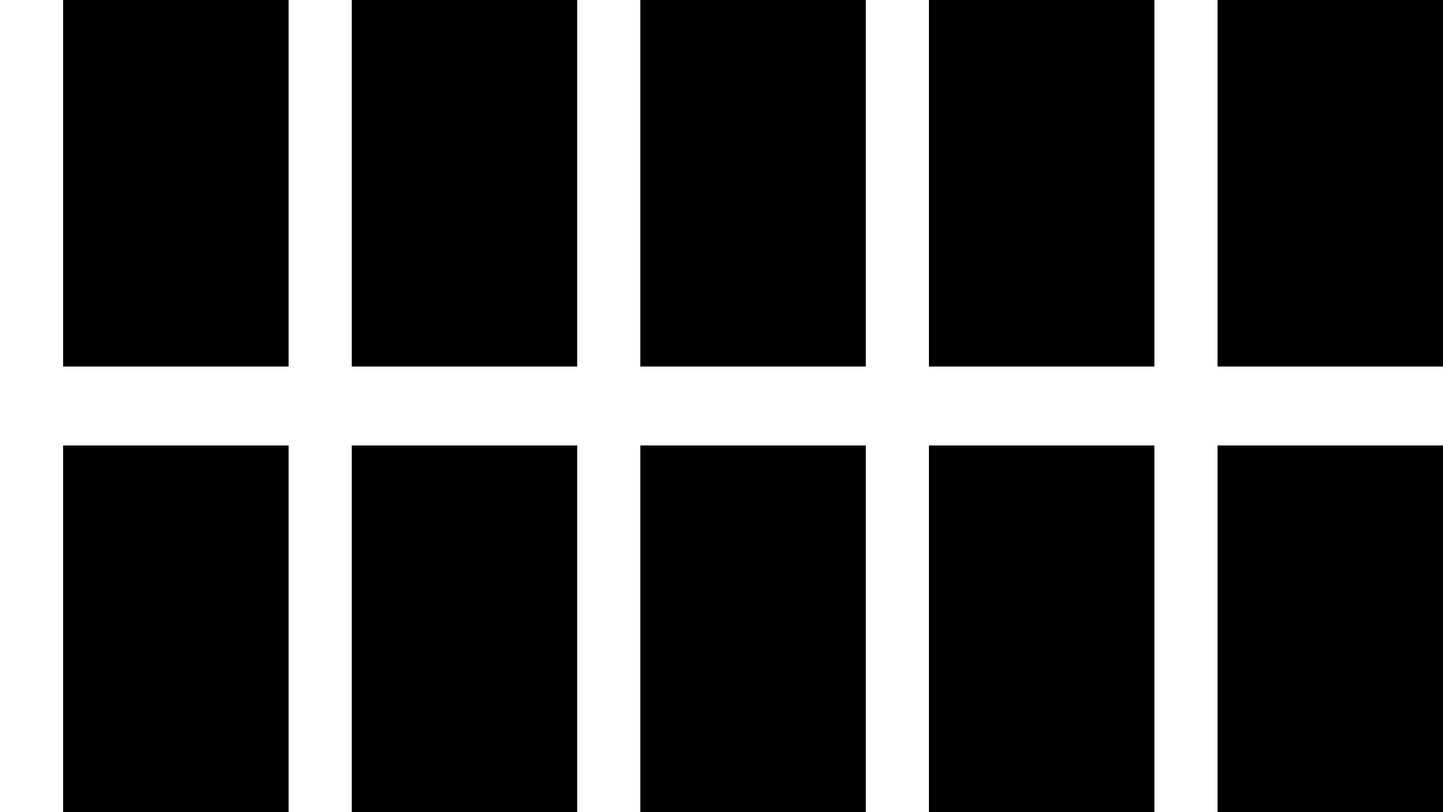
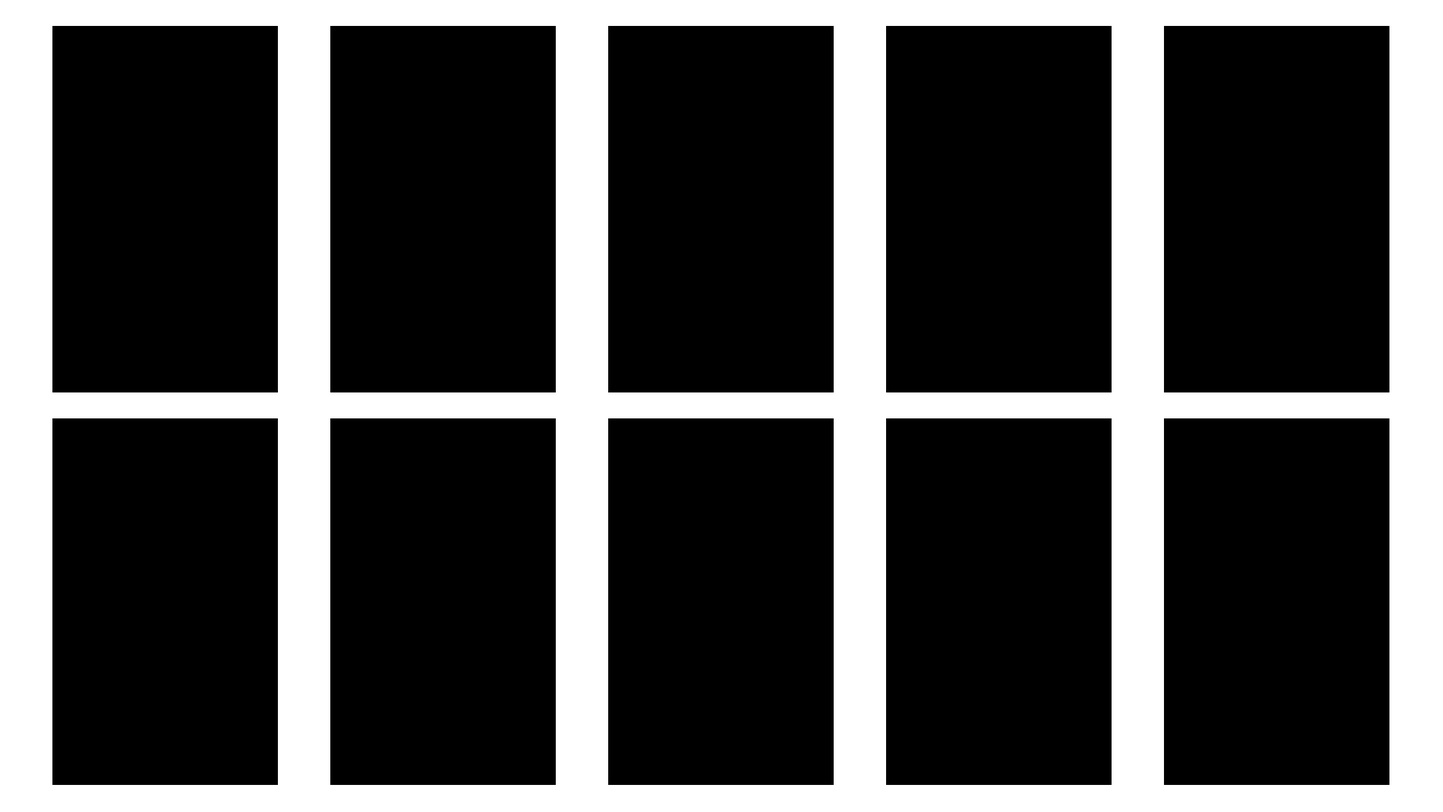
``` docs: スプライト生成プロンプトを5フレームから10フレームへ拡張 ```

Changed region(s): [[0.0312, 0.0, 1.0, 1.0]]

diff --git a/prompt/sprite_list.md b/prompt/sprite_list.md
@@ -6,7 +6,7 @@
 - **风格**: 现代像素美术 (类似 Dead Cells)
 - **视角**: 正上方俯视（上帝视角），从角色正上方正交投影
 - **配色**: 深绿色斗篷（带兜帽覆盖头部）、棕色皮革箭袋、木质长弓、深棕色靴子
-- **帧数**: 每个动作 5 帧
+- **帧数**: 每个动作 10 帧
 - **目标帧尺寸**: 80 × 130 像素 (透明背景)
 
 ---
@@ -16,78 +16,81 @@
 | 参数 | 值 |
 |------|-----|
 | 生成方式 | image2image（以参考图为布局基准） |
-| 参考图 | `seedance-input/rule.png` |
+| 参考图 | `seedance-input/rule_10.png` |
 | ratio | 16:9 |
 | resolution_type | 2k |
 | model_version | 5.0 |
 | poll | 120 |
 
-> 输出原始尺寸约 2560×1440（16:9），后续裁切为 5 张独立帧并缩放到 80×130。
+> 输出原始尺寸约 2560×1440（16:9），后续裁切为 10 张独立帧并缩放到 80×130。
 
-### 参考图说明 (`seedance-input/rule.png`)
+### 参考图说明 (`seedance-input/rule_10.png`)
 
-布局模板图（2560×1440），白底上有 5 个等距黑色矩形区域，定义了角色的精确放置位置：
+布局模板图（2560×1440），白底上有 10 个黑色矩形区域（上下两行各5个），定义了角色的精确放置位置：
 
 | 属性 | 值 |
 |------|-----|
 | 黑色区域尺寸 | 400×650 像素（每个） |
-| 顶部留白 | 427 像素 |
-| 底部留白 | 363 像素 |
-| 左侧留白 / 矩形间距 | 112 像素 |
-| 黑色区域行范围 | y=427 ~ y=1076 |
+| 布局 | 上下两行，每行5个 |
+| 上方留白 | 46 像素 |
+| 行间距 | 46 像素 |
+| 下方留白 | 48 像素 |
+| 左侧留白 | 93 像素 |
+| 水平间距（矩形之间） | 93 像素 |
+| 第一行行范围 | y=46 ~ y=696 |
+| 第二行行范围 | y=742 ~ y=1392 |
 
 生成时角色必须**完全填满**每个黑色矩形区域，黑色区域外保持纯白背景。
+帧序号：第一行从左到右为第1~5帧，第二行从左到右为第6~10帧。
 
 ---
 
 ## 核心约束（所有动作必须遵守）
 
 ```
-⚠ 重要：以下约束必须在生成时严格执行（基于参考图 seedance-input/rule.png，输出尺寸 2560×1440）
+⚠ 重要：以下约束必须在生成时严格执行（基于参考图 seedance-input/rule_10.png，输出尺寸 2560×1440）
 
-1. 【参考图布局】以 seedance-input/rule.png 为布局基准，图中有 5 个 400×650 像素的黑色矩形区域，
+1. 【参考图布局】以 seedance-input/rule_10.png 为布局基准，图中有 10 个 400×650 像素的黑色矩形区域（上下两行各5个），
    角色必须完全填满每个黑色区域，黑色区域之外保持纯白色背景。
 
-2. 【统一角色比例】所有 5 帧中角色必须保持完全相同的像素大小，
+2. 【统一角色比例】所有 10 帧中角色必须保持完全相同的像素大小，
    角色从头顶到脚底填满黑色区域的 650 像素高度，宽度填满 400 像素宽度。
    三个动作（idle/walk/attack）之间的角色大小也必须完全一致。
 
-3. 【脚底锚点】所有 5 帧角色的脚底必须处于同一水平高度，
-   对齐黑色区域的底边（距图片底边 363 像素处），不得上下偏移。
+3. 【脚底锚点】所有 10 帧角色的脚底必须处于各自黑色区域底边的同一相对高度，不得上下偏移。
 
-4. 【头顶锚点】角色头顶对齐黑色区域的顶边（距图片顶边 427 像素处），
-   所有帧保持一致。
+4. 【头顶锚点】角色头顶对齐各自黑色区域的顶边，所有帧保持一致。
 
-5. 【帧布局】5 帧按参考图中 5 个黑色区域的位置从左到右排列，
+5. 【帧布局】10 帧按参考图中 10 个黑色区域的位置排列（第一行5个从左到右为1~5帧，第二行5个为6~10帧），
    帧与帧之间无任何分隔线、边框、标注或辅助线，
    背景保持纯净纯白，禁止在画面中任何位置出现横线、竖线、分割线、
    网格线、标尺、刻度或任何形式的辅助标记。
 
-6. 【角色位置固定】★ 核心约束 ★ 所有 5 帧中角色必须严格固定在各自黑色区域的
+6. 【角色位置固定】★ 核心约束 ★ 所有 10 帧中角色必须严格固定在各自黑色区域的
    正中央位置（X轴Y轴均固定），仅允许动作姿态变化，
    绝对禁止角色位置在帧与帧之间出现任何偏移、漂移或位置不一致的问题。
 
 7. 【禁止辅助元素】★ 画面中不得出现任何非角色内容的辅助性视觉元素 ★
    包括但不限于：参考线、对齐线、网格、标注文字、箭头、尺寸标记等。
-   整张图片只包含纯白背景和 5 个角色帧，不含任何额外的图形元素。
+   整张图片只包含纯白背景和 10 个角色帧，不含任何额外的图形元素。
 ```
 
 ---
 
 ## 动作一：待机 (Idle)
 
-**动作描述**: 角色站立不动，呈现自然的呼吸起伏节奏，斗篷随微风轻微飘动。
+**动作描述**: 角色站立不动，呈现自然的呼吸起伏节奏，斗篷随微风轻微飘动。10帧形成完整的呼吸循环。
 
 ```text
-参考输入图片的布局，将5个黑色矩形区域替换为像素风格游戏角色。现代像素美术风格，类似Dead Cells的精美像素画风，**正上方俯视视角（上帝视角）**，从角色正上方正交投影，角色头顶清晰可见。一个弓箭手角色的待机idle动画序列帧，**角色必须完全填满每个黑色矩形区域（400×650像素）**，黑色区域之外保持纯白色背景。帧与帧之间无任何分隔线、边框、黑线或辅助线，**严禁在画面中任何位置出现横线、竖线、黑线、网格线、标尺、刻度或任何辅助标记，帧与帧的过渡区域必须是纯白色无任何痕迹**。所有帧中角色严格固定在各自黑色区域正中央同一位置（X轴Y轴均固定），仅允许呼吸姿态动作变化，绝对禁止角色位置在帧与帧之间出现任何偏移或漂移。所有5帧角色必须保持完全相同的像素大小，三个动作间角色大小也必须完全一致。角色身穿深绿色斗篷、头戴深绿色兜帽（hood，从俯视角度兜帽覆盖头顶清晰可见），背负精致箭袋，左手持木质长弓。5帧展示连续的呼吸起伏循环动作：第1帧角色直立、第2帧身体微微下沉、第3帧下沉到最低点斗篷轻微飘动、第4帧身体开始回升、第5帧回到初始姿态。每一帧的动作变化细微且平滑衔接，形成流畅的待机呼吸动画循环。纯白色背景，无任何装饰元素，清晰像素轮廓，适合游戏开发使用。
+参考输入图片的布局，将10个黑色矩形区域替换为像素风格游戏角色。现代像素美术风格，类似Dead Cells的精美像素画风，**正上方俯视视角（上帝视角）**，从角色正上方正交投影，角色头顶清晰可见。一个弓箭手角色的待机idle动画序列帧，**角色必须完全填满每个黑色矩形区域（400×650像素）**，黑色区域之外保持纯白色背景。帧与帧之间无任何分隔线、边框、黑线或辅助线，**严禁在画面中任何位置出现横线、竖线、黑线、网格线、标尺、刻度或任何辅助标记，帧与帧的过渡区域必须是纯白色无任何痕迹**。所有帧中角色严格固定在各自黑色区域正中央同一位置（X轴Y轴均固定），仅允许呼吸姿态动作变化，绝对禁止角色位置在帧与帧之间出现任何偏移或漂移。所有10帧角色必须保持完全相同的像素大小，三个动作间角色大小也必须完全一致。角色身穿深绿色斗篷、头戴深绿色兜帽（hood，从俯视角度兜帽覆盖头顶清晰可见），背负精致箭袋，左手持木质长弓。10帧展示连续的呼吸起伏循环动作：第1帧角色直立、第2帧身体开始微微下沉、第3帧继续下沉斗篷开始飘动、第4帧下沉到最低点斗篷轻微飘动、第5帧身体开始缓慢回升、第6帧继续回升斗篷回落、第7帧回到直立位置、第8帧身体微微上扬、第9帧上扬到最高点微微挺胸、第10帧回到初始姿态完成循环。每一帧的动作变化细微且平滑衔接，形成流畅的待机呼吸动画循环。纯白色背景，无任何装饰元素，清晰像素轮廓，适合游戏开发使用。
 ```
 
 **CLI 命令**:
 
 ```bash
 dreamina image2image \
-  --images seedance-input/rule.png \
-  --prompt="参考输入图片的布局，将5个黑色矩形区域替换为像素风格游戏角色。现代像素美术风格，类似Dead Cells的精美像素画风，**正上方俯视视角（上帝视角）**，从角色正上方正交投影，角色头顶清晰可见。一个弓箭手角色的待机idle动画序列帧，**角色必须完全填满每个黑色矩形区域（400×650像素）**，黑色区域之外保持纯白色背景。帧与帧之间无任何分隔线、边框、黑线或辅助线，**严禁在画面中任何位置出现横线、竖线、黑线、网格线、标尺、刻度或任何辅助标记，帧与帧的过渡区域必须是纯白色无任何痕迹**。所有帧中角色严格固定在各自黑色区域正中央同一位置（X轴Y轴均固定），仅允许呼吸姿态动作变化，绝对禁止角色位置在帧与帧之间出现任何偏移或漂移。所有5帧角色必须保持完全相同的像素大小，三个动作间角色大小也必须完全一致。角色身穿深绿色斗篷、头戴深绿色兜帽（hood，从俯视角度兜帽覆盖头顶清晰可见），背负精致箭袋，左手持木质长弓。5帧展示连续的呼吸起伏循环动作：第1帧角色直立、第2帧身体微微下沉、第3帧下沉到最低点斗篷轻微飘动、第4帧身体开始回升、第5帧回到初始姿态。每一帧的动作变化细微且平滑衔接，形成流畅的待机呼吸动画循环。纯白色背景，无任何装饰元素，清晰像素轮廓，适合游戏开发使用。" \
+  --images seedance-input/rule_10.png \
+  --prompt="参考输入图片的布局，将10个黑色矩形区域替换为像素风格游戏角色。现代像素美术风格，类似Dead Cells的精美像素画风，**正上方俯视视角（上帝视角）**，从角色正上方正交投影，角色头顶清晰可见。一个弓箭手角色的待机idle动画序列帧，**角色必须完全填满每个黑色矩形区域（400×650像素）**，黑色区域之外保持纯白色背景。帧与帧之间无任何分隔线、边框、黑线或辅助线，**严禁在画面中任何位置出现横线、竖线、黑线、网格线、标尺、刻度或任何辅助标记，帧与帧的过渡区域必须是纯白色无任何痕迹**。所有帧中角色严格固定在各自黑色区域正中央同一位置（X轴Y轴均固定），仅允许呼吸姿态动作变化，绝对禁止角色位置在帧与帧之间出现任何偏移或漂移。所有10帧角色必须保持完全相同的像素大小，三个动作间角色大小也必须完全一致。角色身穿深绿色斗篷、头戴深绿色兜帽（hood，从俯视角度兜帽覆盖头顶清晰可见），背负精致箭袋，左手持木质长弓。10帧展示连续的呼吸起伏循环动作：第1帧角色直立、第2帧身体开始微微下沉、第3帧继续下沉斗篷开始飘动、第4帧下沉到最低点斗篷轻微飘动、第5帧身体开始缓慢回升、第6帧继续回升斗篷回落、第7帧回到直立位置、第8帧身体微微上扬、第9帧上扬到最高点微微挺胸、第10帧回到初始姿态完成循环。每一帧的动作变化细微且平滑衔接，形成流畅的待机呼吸动画循环。纯白色背景，无任何装饰元素，清晰像素轮廓，适合游戏开发使用。" \
   --ratio=16:9 \
   --resolution_type=2k \
   --model_version=5.0 \
@@ -98,18 +101,18 @@ dreamina image2image \
 
 ## 动作二：行走 (Walk)
 
-**动作描述**: 角色面朝右方行走，所有帧朝向一致，左手始终持弓，腿部交替迈步，斗篷随步伐节奏飘动。
+**动作描述**: 角色面朝右方行走，所有帧朝向一致，左手始终持弓，腿部交替迈步，斗篷随步伐节奏飘动。10帧形成完整的两步行走循环。
 
 ```text
-参考输入图片的布局，将5个黑色矩形区域替换为像素风格游戏角色。现代像素美术风格，类似Dead Cells的精美像素画风，**正上方俯视视角（上帝视角）**，从角色正上方正交投影，角色头顶清晰可见。一个弓箭手角色的走路walk动画序列帧，**角色必须完全填满每个黑色矩形区域（400×650像素）**，黑色区域之外保持纯白色背景。帧与帧之间无任何分隔线、边框、黑线或辅助线，**严禁在画面中任何位置出现横线、竖线、黑线、网格线、标尺、刻度或任何辅助标记，帧与帧的过渡区域必须是纯白色无任何痕迹**。所有帧中角色严格固定在各自黑色区域正中央同一位置（X轴Y轴均固定），仅允许行走姿态动作变化，绝对禁止角色位置在帧与帧之间出现任何偏移或漂移。所有5帧角色必须保持完全相同的像素大小，三个动作间角色大小也必须完全一致。角色身穿深绿色斗篷、头戴深绿色兜帽（hood，从俯视角度兜帽覆盖头顶清晰可见），背负精致箭袋，**左手始终握持木质长弓（所有5帧每帧都必须可见长弓，不得省略或消失）**。★所有5帧角色必须统一面朝右方，朝向严格一致，禁止出现任何帧朝向不同或角色翻转的情况★。5帧展示连续的向右行走循环动作：第1帧左手持弓右脚向前迈出、第2帧左手持弓右脚着地重心前移、第3帧左手持弓双脚交替中间过渡、第4帧左手持弓左脚迈出斗篷随动飘起、第5帧左手持弓左脚着地完成一个步伐循环。每一帧角色始终面朝右方且左手握弓可见，位置不变只有腿部和身体姿态变化，动作变化平滑连贯形成流畅的行走动画。纯白色背景，无任何装饰元素，清晰像素轮廓，适合游戏开发使用。
+参考输入图片的布局，将10个黑色矩形区域替换为像素风格游戏角色。现代像素美术风格，类似Dead Cells的精美像素画风，**正上方俯视视角（上帝视角）**，从角色正上方正交投影，角色头顶清晰可见。一个弓箭手角色的走路walk动画序列帧，**角色必须完全填满每个黑色矩形区域（400×650像素）**，黑色区域之外保持纯白色背景。帧与帧之间无任何分隔线、边框、黑线或辅助线，**严禁在画面中任何位置出现横线、竖线、黑线、网格线、标尺、刻度或任何辅助标记，帧与帧的过渡区域必须是纯白色无任何痕迹**。所有帧中角色严格固定在各自黑色区域正中央同一位置（X轴Y轴均固定），仅允许行走姿态动作变化，绝对禁止角色位置在帧与帧之间出现任何偏移或漂移。所有10帧角色必须保持完全相同的像素大小，三个动作间角色大小也必须完全一致。角色身穿深绿色斗篷、头戴深绿色兜帽（hood，从俯视角度兜帽覆盖头顶清晰可见），背负精致箭袋，**左手始终握持木质长弓（所有10帧每帧都必须可见长弓，不得省略或消失）**。★所有10帧角色必须统一面朝右方，朝向严格一致，禁止出现任何帧朝向不同或角色翻转的情况★。10帧展示连续的向右行走循环动作：第1帧左手持弓右脚向前迈出、第2帧右脚着地重心前移、第3帧右脚完全着地身体前倾、第4帧双脚交替中间过渡、第5帧左脚开始迈出斗篷随动飘起、第6帧左脚向前迈步、第7帧左脚着地重心前移、第8帧左脚完全着地身体前倾、第9帧双脚交替中间过渡准备下一步、第10帧右脚开始迈出回到循环起点。每一帧角色始终面朝右方且左手握弓可见，位置不变只有腿部和身体姿态变化，动作变化平滑连贯形成流畅的行走动画。纯白色背景，无任何装饰元素，清晰像素轮廓，适合游戏开发使用。
 ```
 
 **CLI 命令**:
 
 ```bash
 dreamina image2image \
-  --images seedance-input/rule.png \
-  --prompt="参考输入图片的布局，将5个黑色矩形区域替换为像素风格游戏角色。现代像素美术风格，类似Dead Cells的精美像素画风，**正上方俯视视角（上帝视角）**，从角色正上方正交投影，角色头顶清晰可见。一个弓箭手角色的走路walk动画序列帧，**角色必须完全填满每个黑色矩形区域（400×650像素）**，黑色区域之外保持纯白色背景。帧与帧之间无任何分隔线、边框、黑线或辅助线，**严禁在画面中任何位置出现横线、竖线、黑线、网格线、标尺、刻度或任何辅助标记，帧与帧的过渡区域必须是纯白色无任何痕迹**。所有帧中角色严格固定在各自黑色区域正中央同一位置（X轴Y轴均固定），仅允许行走姿态动作变化，绝对禁止角色位置在帧与帧之间出现任何偏移或漂移。所有5帧角色必须保持完全相同的像素大小，三个动作间角色大小也必须完全一致。角色身穿深绿色斗篷、头戴深绿色兜帽（hood，从俯视角度兜帽覆盖头顶清晰可见），背负精致箭袋，**左手始终握持木质长弓（所有5帧每帧都必须可见长弓，不得省略或消失）**。★所有5帧角色必须统一面朝右方，朝向严格一致，禁止出现任何帧朝向不同或角色翻转的情况★。5帧展示连续的向右行走循环动作：第1帧左手持弓右脚向前迈出、第2帧左手持弓右脚着地重心前移、第3帧左手持弓双脚交替中间过渡、第4帧左手持弓左脚迈出斗篷随动飘起、第5帧左手持弓左脚着地完成一个步伐循环。每一帧角色始终面朝右方且左手握弓可见，位置不变只有腿部和身体姿态变化，动作变化平滑连贯形成流畅的行走动画。纯白色背景，无任何装饰元素，清晰像素轮廓，适合游戏开发使用。" \
+  --images seedance-input/rule_10.png \
+  --prompt="参考输入图片的布局，将10个黑色矩形区域替换为像素风格游戏角色。现代像素美术风格，类似Dead Cells的精美像素画风，**正上方俯视视角（上帝视角）**，从角色正上方正交投影，角色头顶清晰可见。一个弓箭手角色的走路walk动画序列帧，**角色必须完全填满每个黑色矩形区域（400×650像素）**，黑色区域之外保持纯白色背景。帧与帧之间无任何分隔线、边框、黑线或辅助线，**严禁在画面中任何位置出现横线、竖线、黑线、网格线、标尺、刻度或任何辅助标记，帧与帧的过渡区域必须是纯白色无任何痕迹**。所有帧中角色严格固定在各自黑色区域正中央同一位置（X轴Y轴均固定），仅允许行走姿态动作变化，绝对禁止角色位置在帧与帧之间出现任何偏移或漂移。所有10帧角色必须保持完全相同的像素大小，三个动作间角色大小也必须完全一致。角色身穿深绿色斗篷、头戴深绿色兜帽（hood，从俯视角度兜帽覆盖头顶清晰可见），背负精致箭袋，**左手始终握持木质长弓（所有10帧每帧都必须可见长弓，不得省略或消失）**。★所有10帧角色必须统一面朝右方，朝向严格一致，禁止出现任何帧朝向不同或角色翻转的情况★。10帧展示连续的向右行走循环动作：第1帧左手持弓右脚向前迈出、第2帧右脚着地重心前移、第3帧右脚完全着地身体前倾、第4帧双脚交替中间过渡、第5帧左脚开始迈出斗篷随动飘起、第6帧左脚向前迈步、第7帧左脚着地重心前移、第8帧左脚完全着地身体前倾、第9帧双脚交替中间过渡准备下一步、第10帧右脚开始迈出回到循环起点。每一帧角色始终面朝右方且左手握弓可见，位置不变只有腿部和身体姿态变化，动作变化平滑连贯形成流畅的行走动画。纯白色背景，无任何装饰元素，清晰像素轮廓，适合游戏开发使用。" \
   --ratio=16:9 \
   --resolution_type=2k \
   --model_version=5.0 \
@@ -120,18 +123,18 @@ dreamina image2image \
 
 ## 动作三：攻击 (Attack)
 
-**动作描述**: 角色完成一次完整的拉弓射箭动作，从举弓准备到箭矢射出再到恢复站姿。
+**动作描述**: 角色完成一次完整的拉弓射箭动作，从举弓准备到箭矢射出再到恢复站姿。10帧展示更细腻的射箭过程。
 
 ```text
-参考输入图片的布局位置，将5个黑色矩形区域完全替换为像素风格游戏角色，**黑色区域必须被角色彻底覆盖，不得残留任何黑色边框、黑边、黑色轮廓或黑色痕迹**。现代像素美术风格，类似Dead Cells的精美像素画风，**正上方俯视视角（上帝视角）**，从角色正上方正交投影，角色头顶清晰可见。一个弓箭手角色的攻击attack动画序列帧，角色按照原黑色区域的位置和大小放置（每个区域400×650像素），**最终画面中不得出现任何矩形边框、方框轮廓或黑色边界线**，角色周围直接是纯白色背景。帧与帧之间无任何分隔线、边框、黑线或辅助线，**严禁在画面中任何位置出现矩形边框、方框、黑色轮廓线、横线、竖线、黑线、网格线、标尺、刻度或任何辅助标记，帧与帧的过渡区域必须是纯白色无任何痕迹**。所有帧中角色严格固定在各自区域正中央同一位置（X轴Y轴均固定），仅允许射箭姿态动作变化，绝对禁止角色位置在帧与帧之间出现任何偏移或漂移。所有5帧角色必须保持完全相同的像素大小，三个动作间角色大小也必须完全一致。角色身穿深绿色斗篷、头戴深绿色兜帽（hood，从俯视角度兜帽覆盖头顶清晰可见），背负精致箭袋，左手持木质长弓。5帧展示连续的射箭攻击动作：第1帧角色举起长弓准备拉弦、第2帧右手向后拉弓弦弓身弯曲、第3帧弓拉满蓄力姿态身体微微后仰、第4帧松开弓弦箭矢射出有箭矢飞出的动态效果、第5帧射箭完成身体回正恢复站姿。每一帧动作递进明确且平滑衔接，形成完整流畅的射箭攻击动画。纯白色背景，无任何装饰元素、无任何边框，清晰像素轮廓，适合游戏开发使用。
+参考输入图片的布局位置，将10个黑色矩形区域完全替换为像素风格游戏角色，**黑色区域必须被角色彻底覆盖，不得残留任何黑色边框、黑边、黑色轮廓或黑色痕迹**。现代像素美术风格，类似Dead Cells的精美像素画风，**正上方俯视视角（上帝视角）**，从角色正上方正交投影，角色头顶清晰可见。一个弓箭手角色的攻击attack动画序列帧，角色按照原黑色区域的位置和大小放置（每个区域400×650像素），**最终画面中不得出现任何矩形边框、方框轮廓或黑色边界线**，角色周围直接是纯白色背景。帧与帧之间无任何分隔线、边框、黑线或辅助线，**严禁在画面中任何位置出现矩形边框、方框、黑色轮廓线、横线、竖线、黑线、网格线、标尺、刻度或任何辅助标记，帧与帧的过渡区域必须是纯白色无任何痕迹**。所有帧中角色严格固定在各自区域正中央同一位置（X轴Y轴均固定），仅允许射箭姿态动作变化，绝对禁止角色位置在帧与帧之间出现任何偏移或漂移。所有10帧角色必须保持完全相同的像素大小，三个动作间角色大小也必须完全一致。角色身穿深绿色斗篷、头戴深绿色兜帽（hood，从俯视角度兜帽覆盖头顶清晰可见），背负精致箭袋，左手持木质长弓。10帧展示连续的射箭攻击动作：第1帧角色举起长弓准备、第2帧右手搭箭上弦、第3帧开始向后拉弓弦弓身微弯、第4帧弓弦拉到一半弓身明显弯曲、第5帧弓拉满蓄力姿态身体微微后仰、第6帧保持满弓瞄准目标、第7帧松开弓弦箭矢射出、第8帧箭矢飞出的动态效果弓弦振动、第9帧身体开始回正弓恢复原状、第10帧完全恢复站姿回到初始状态。每一帧动作递进明确且平滑衔接，形成完整流畅的射箭攻击动画。纯白色背景，无任何装饰元素、无任何边框，清晰像素轮廓，适合游戏开发使用。
 ```
 
 **CLI 命令**:
 
 ```bash
 dreamina image2image \
-  --images seedance-input/rule.png \
-  --prompt="参考输入图片的布局位置，将5个黑色矩形区域完全替换为像素风格游戏角色，**黑色区域必须被角色彻底覆盖，不得残留任何黑色边框、黑边、黑色轮廓或黑色痕迹**。现代像素美术风格，类似Dead Cells的精美像素画风，**正上方俯视视角（上帝视角）**，从角色正上方正交投影，角色头顶清晰可见。一个弓箭手角色的攻击attack动画序列帧，角色按照原黑色区域的位置和大小放置（每个区域400×650像素），**最终画面中不得出现任何矩形边框、方框轮廓或黑色边界线**，角色周围直接是纯白色背景。帧与帧之间无任何分隔线、边框、黑线或辅助线，**严禁在画面中任何位置出现矩形边框、方框、黑色轮廓线、横线、竖线、黑线、网格线、标尺、刻度或任何辅助标记，帧与帧的过渡区域必须是纯白色无任何痕迹**。所有帧中角色严格固定在各自区域正中央同一位置（X轴Y轴均固定），仅允许射箭姿态动作变化，绝对禁止角色位置在帧与帧之间出现任何偏移或漂移。所有5帧角色必须保持完全相同的像素大小，三个动作间角色大小也必须完全一致。角色身穿深绿色斗篷、头戴深绿色兜帽（hood，从俯视角度兜帽覆盖头顶清晰可见），背负精致箭袋，左手持木质长弓。5帧展示连续的射箭攻击动作：第1帧角色举起长弓准备拉弦、第2帧右手向后拉弓弦弓身弯曲、第3帧弓拉满蓄力姿态身体微微后仰、第4帧松开弓弦箭矢射出有箭矢飞出的动态效果、第5帧射箭完成身体回正恢复站姿。每一帧动作递进明确且平滑衔接，形成完整流畅的射箭攻击动画。纯白色背景，无任何装饰元素、无任何边框，清晰像素轮廓，适合游戏开发使用。" \
+  --images seedance-input/rule_10.png \
+  --prompt="参考输入图片的布局位置，将10个黑色矩形区域完全替换为像素风格游戏角色，**黑色区域必须被角色彻底覆盖，不得残留任何黑色边框、黑边、黑色轮廓或黑色痕迹**。现代像素美术风格，类似Dead Cells的精美像素画风，**正上方俯视视角（上帝视角）**，从角色正上方正交投影，角色头顶清晰可见。一个弓箭手角色的攻击attack动画序列帧，角色按照原黑色区域的位置和大小放置（每个区域400×650像素），**最终画面中不得出现任何矩形边框、方框轮廓或黑色边界线**，角色周围直接是纯白色背景。帧与帧之间无任何分隔线、边框、黑线或辅助线，**严禁在画面中任何位置出现矩形边框、方框、黑色轮廓线、横线、竖线、黑线、网格线、标尺、刻度或任何辅助标记，帧与帧的过渡区域必须是纯白色无任何痕迹**。所有帧中角色严格固定在各自区域正中央同一位置（X轴Y轴均固定），仅允许射箭姿态动作变化，绝对禁止角色位置在帧与帧之间出现任何偏移或漂移。所有10帧角色必须保持完全相同的像素大小，三个动作间角色大小也必须完全一致。角色身穿深绿色斗篷、头戴深绿色兜帽（hood，从俯视角度兜帽覆盖头顶清晰可见），背负精致箭袋，左手持木质长弓。10帧展示连续的射箭攻击动作：第1帧角色举起长弓准备、第2帧右手搭箭上弦、第3帧开始向后拉弓弦弓身微弯、第4帧弓弦拉到一半弓身明显弯曲、第5帧弓拉满蓄力姿态身体微微后仰、第6帧保持满弓瞄准目标、第7帧松开弓弦箭矢射出、第8帧箭矢飞出的动态效果弓弦振动、第9帧身体开始回正弓恢复原状、第10帧完全恢复站姿回到初始状态。每一帧动作递进明确且平滑衔接，形成完整流畅的射箭攻击动画。纯白色背景，无任何装饰元素、无任何边框，清晰像素轮廓，适合游戏开发使用。" \
   --ratio=16:9 \
   --resolution_type=2k \
   --model_version=5.0 \
@@ -142,9 +145,9 @@ dreamina image2image \
 
 ## 后处理：裁切脚本
 
-生成的 sprite sheet（约 2560×1440）需裁切为 5 张独立帧，并缩放到 80×130。透明背景 PNG。
+生成的 sprite sheet（约 2560×1440）需裁切为 10 张独立帧（上下两行各5个），并缩放到 80×130。透明背景 PNG。
 
-> 注意：使用 image2image + rule.png 参考图后，角色位于 5 个 400×650 的区域内，
+> 注意：使用 image2image + rule_10.png 参考图后，角色位于 10 个 400×650 的区域内（两行各5个），
 > 裁切脚本会自动按内容边界框裁剪并对齐脚底锚点。
 > 输出目录 client/Assets/Sprites/Roles/
 
@@ -153,7 +156,7 @@ python3 scripts/split_sprite_sheet.py <sprite_sheet.png> <action_name>
 ```
 
 裁切逻辑：
-1. 将 sprite sheet 等分为 5 个区域（每区域约 512×1440）
+1. 将 sprite sheet 按两行各5个区域分割为 10 个区域（第一行 y=46~696，第二行 y=742~1392，每区域约 400×650）
 2. 每帧去除白色背景（阈值 > 240 视为白色，转为透明）
 3. 裁剪到角色内容边界框 + 5px 内边距
 4. **验证脚底对齐**：若各帧裁剪后内容高度差异 > 5px，则以脚底为锚点统一缩放至相同高度，再等比缩放至 360px 高
@@ -165,7 +168,7 @@ python3 scripts/split_sprite_sheet.py <sprite_sheet.png> <action_name>
 ## 提示词核心结构
 
 ```
-[参考图布局: 参考输入图片的布局，将5个黑色矩形区域替换为像素风格游戏角色] +
+[参考图布局: 参考输入图片的布局，将10个黑色矩形区域替换为像素风格游戏角色] +
 [风格声明] + [视角] + [角色描述] + [动作名称] +
 [填充约束: 角色必须完全填满每个黑色矩形区域（400×650像素），黑色区域之外保持纯白色背景] +
 [帧间约束: 无任何分隔线/辅助线/辅助标记，帧过渡区域纯白] +
@@ -173,7 +176,7 @@ python3 scripts/split_sprite_sheet.py <sprite_sheet.png> <action_name>
 ★ [禁止辅助元素: 画面中不得出现任何参考线/网格/标注/标尺等非角色内容] +
 [角色外观: 斗篷/兜帽/箭袋/长弓] +
 ★ [一致性约束: 所有帧角色保持完全相同的像素大小和比例] +
-[逐帧动作描述: 第1帧...第2帧...第3帧...第4帧...第5帧] +
+[逐帧动作描述: 第1帧...第2帧...第3帧...第4帧...第5帧...第6帧...第7帧...第8帧...第9帧...第10帧] +
 [连贯性要求] +
 [背景要求: 纯白无装饰]
 ```
@@ -181,7 +184,7 @@ python3 scripts/split_sprite_sheet.py <sprite_sheet.png> <action_name>
 CLI 模板：
 ```bash
 dreamina image2image \
-  --images seedance-input/rule.png \
+  --images seedance-input/rule_10.png \
   --prompt="[上述提示词]" \
   --ratio=16:9 \
   --resolution_type=2k \
